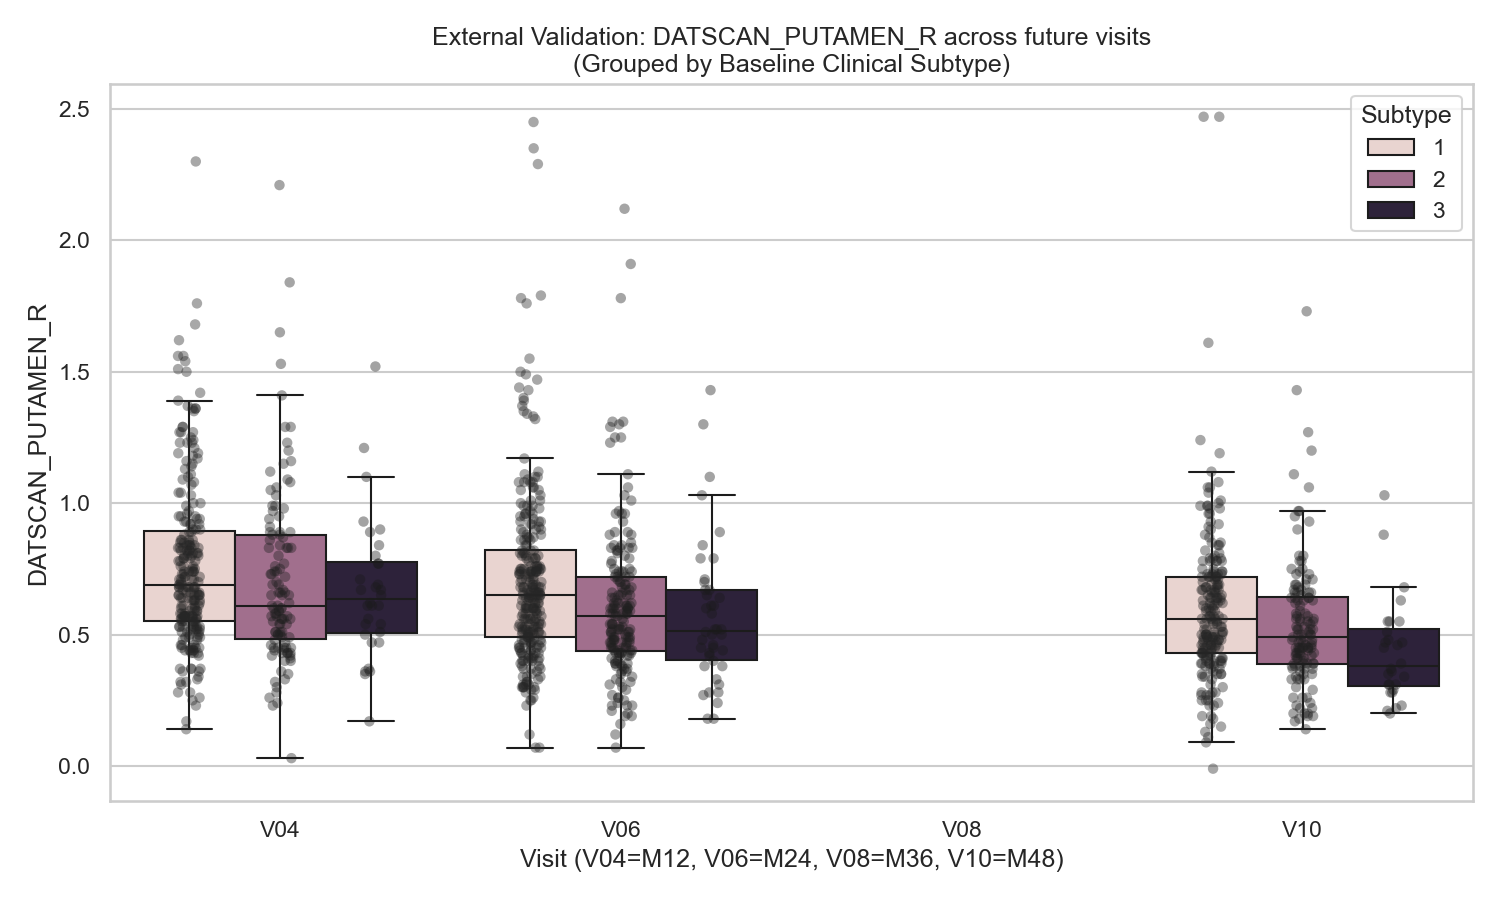
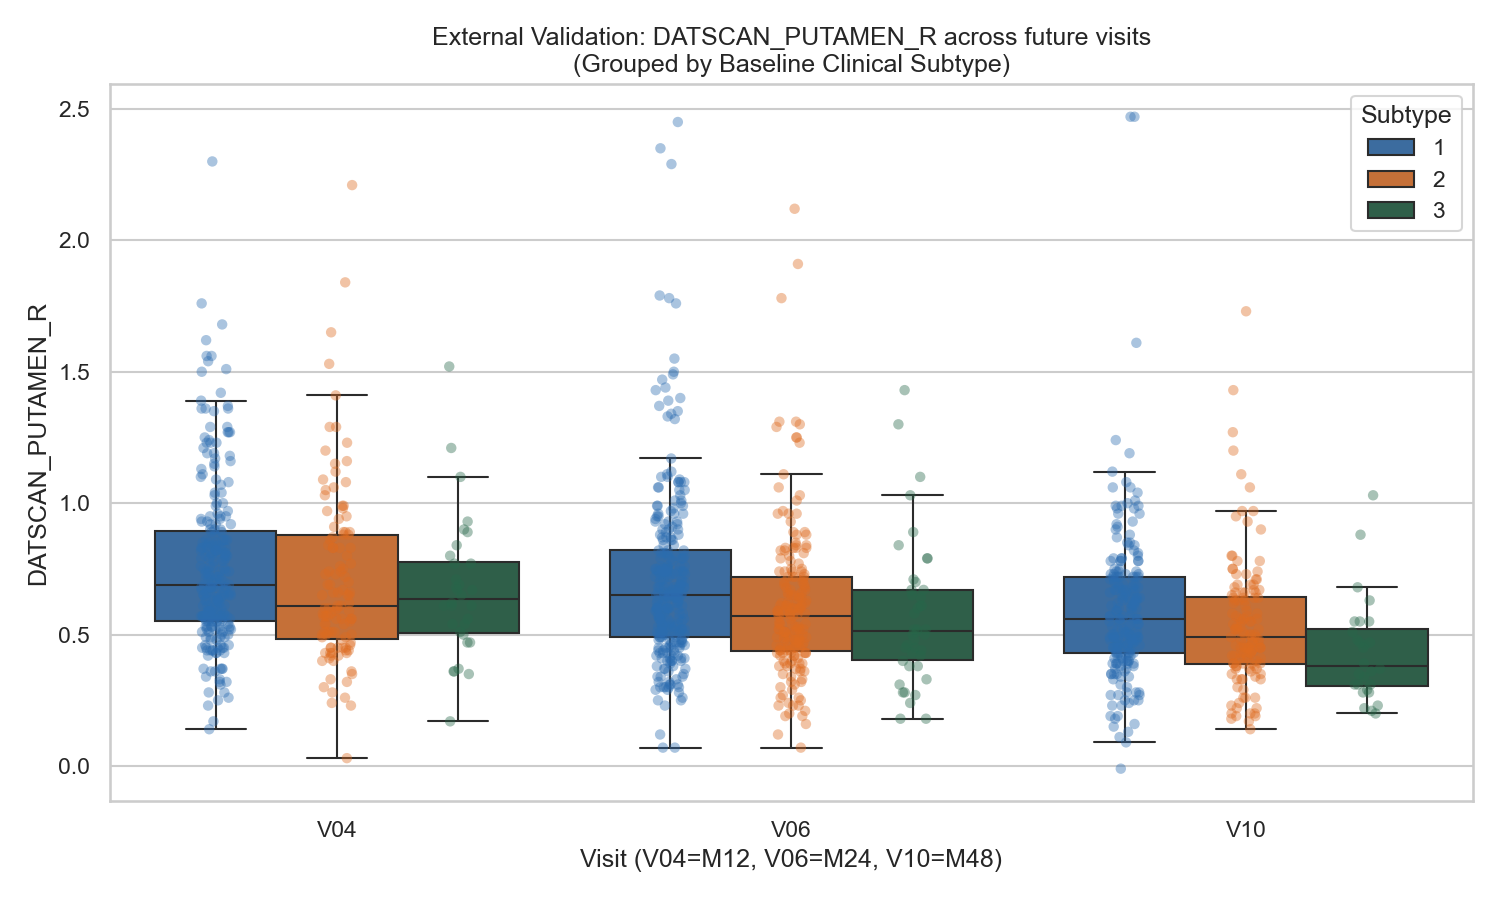
8 commit

diff --git a/characterize_clinical_subtypes_via_imaging.py b/characterize_clinical_subtypes_via_imaging.py
@@ -47,7 +47,7 @@ def main():
     df_visits = pd.read_csv(enriched_path, low_memory=False)
     
     # Filter target visits (Month 12, 24, 36, 48)
-    target_visits = ['V04', 'V06', 'V08', 'V10']
+    target_visits = ['V04', 'V06', 'V10']
     df_target = df_visits[df_visits['EVENT_ID'].isin(target_visits)].copy()
     
     # Merge imaging data with the patient's Clinical Subtype assigned at baseline
@@ -79,7 +79,8 @@ def main():
         df_merged['R2_SN_MEAN'] = df_merged[['Moyenne_SN_R', 'Moyenne_SN_L']].mean(axis=1)
         img_features.append('R2_SN_MEAN')
 
-    sns.set_theme(style="whitegrid", palette="muted")
+    sns.set_theme(style="whitegrid")
+    SUBTYPE_PALETTE = {1: "#2b6cb0", 2: "#dd6b20", 3: "#276749"} 
     
     results = []
     
@@ -93,7 +94,8 @@ def main():
             x='EVENT_ID', 
             y=feat, 
             hue='Clinical_Subtype', 
-            order=target_visits, 
+            order=target_visits,
+            palette=SUBTYPE_PALETTE, 
             showfliers=False
         )
         sns.stripplot(
@@ -103,13 +105,13 @@ def main():
             hue='Clinical_Subtype', 
             order=target_visits, 
             dodge=True, 
-            alpha=0.4, 
-            color='k', 
+            alpha=0.4,
+            palette=SUBTYPE_PALETTE, 
             legend=False
         )
         
         plt.title(f"External Validation: {feat} across future visits\n(Grouped by Baseline Clinical Subtype)")
-        plt.xlabel("Visit (V04=M12, V06=M24, V08=M36, V10=M48)")
+        plt.xlabel("Visit (V04=M12, V06=M24, V10=M48)")
         plt.ylabel(feat)
         plt.legend(title="Subtype")
         plt.tight_layout()
